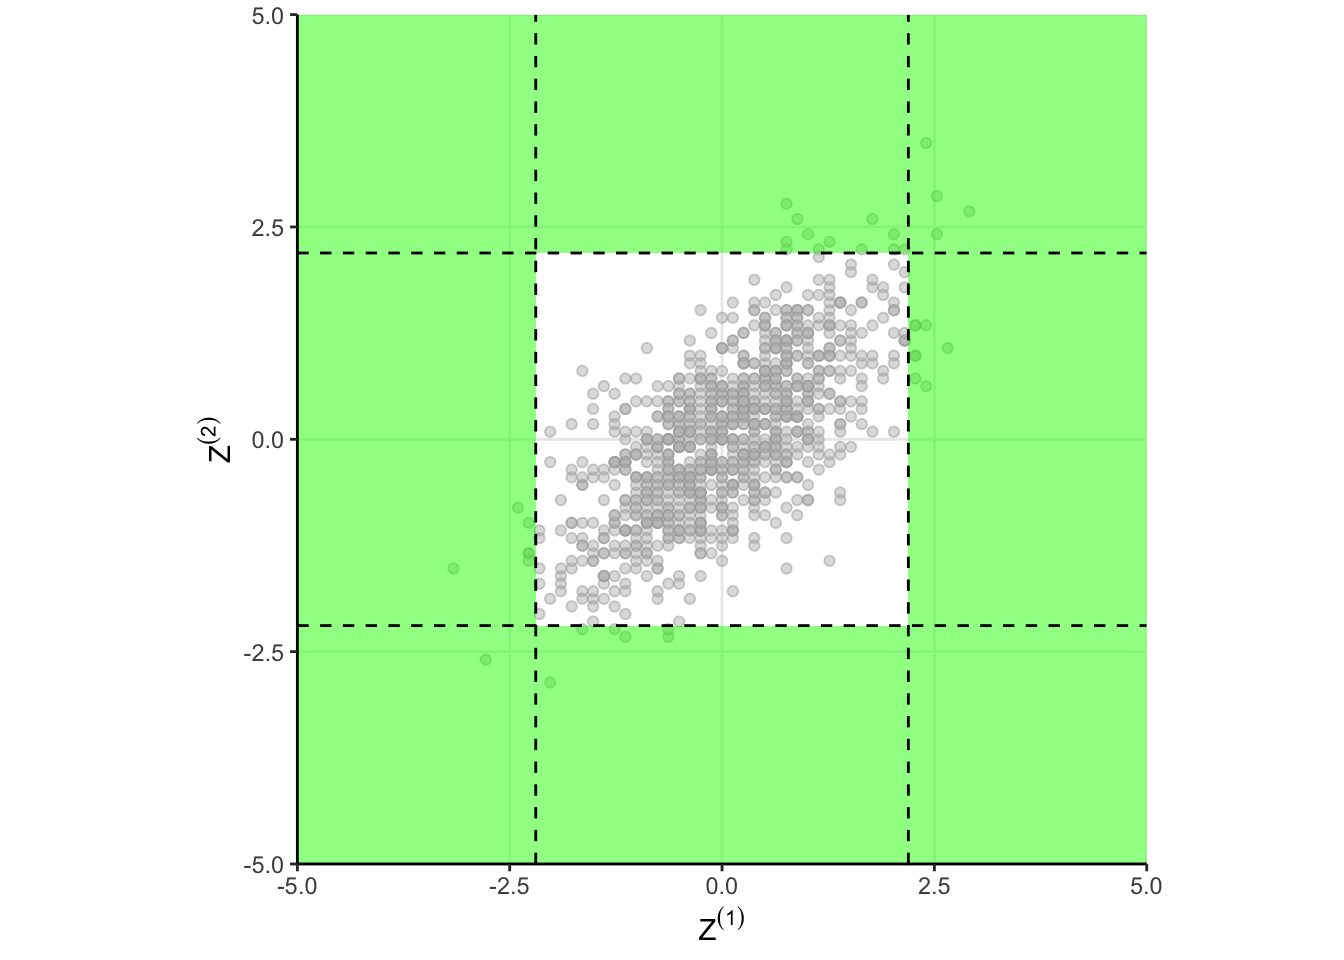
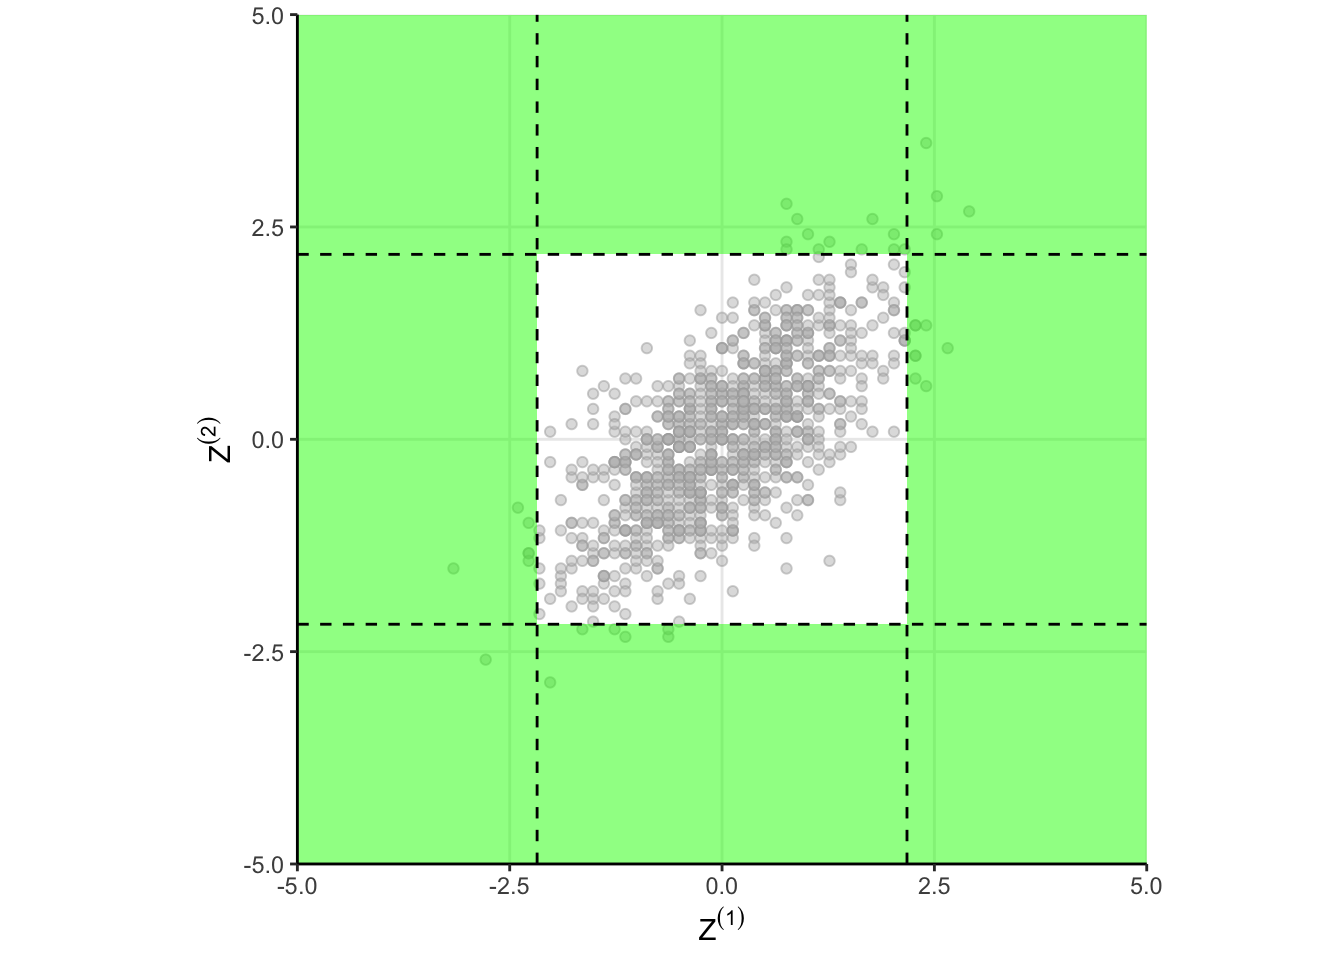
rerender blog posts

Changed region(s): [[0.375, 0.625, 0.6875, 0.6562], [0.6562, 0.25, 0.6875, 0.2812], [0.375, 0.25, 0.4062, 0.2812]]

diff --git a/docs/posts/2022-07-06-gsd/index.html b/docs/posts/2022-07-06-gsd/index.html
@@ -340,7 +340,7 @@ code span.wa { color: #60a0b0; font-weight: bold; font-style: italic; } /* Warni
 <span id="cb1-33"><a href="#cb1-33" aria-hidden="true" tabindex="-1"></a>  <span class="fu">pull</span>(fpr)</span></code><button title="Copy to Clipboard" class="code-copy-button"><i class="bi"></i></button></pre></div>
 </div>
 <p>From our simulation, we reject the null around 8.6% of the time. That is certainly higher than the nominal 5%, but if we recall our sophomore stats classes, isn’t there a 9.8% (<span class="math inline">\(1-0.95^2\)</span>) chance we reject the null?</p>
-<p>The 8.6% isn’t simulation error. Because of the accumulation of data, <span class="math inline">\(\bar{X}^{(1)}\)</span> and <span class="math inline">\(\bar{X}^{(2)}\)</span> are <em>correlated</em>. The correlation between <span class="math inline">\(\bar{X}^{(1)}\)</span> and <span class="math inline">\(\bar{X}^{(2)}\)</span> makes intuitive sense. If the sample mean for the first group is small, then the accumulated mean is also likely to be small than if we were to just take a new sample. Let’s take a more detailed look at <a href="#eq-eq-1">Equation&nbsp;1</a>. Note that</p>
+<p>The 8.6% isn’t simulation error. We forgot that <span class="math inline">\(\bar{X}^{(1)}\)</span> and <span class="math inline">\(\bar{X}^{(2)}\)</span> are <em>correlated</em>. The correlation between <span class="math inline">\(\bar{X}^{(1)}\)</span> and <span class="math inline">\(\bar{X}^{(2)}\)</span> makes intuitive sense. If the sample mean for the first group is small, then the accumulated mean is also likely to be small than if we were to just take a new sample. Let’s take a more detailed look at <a href="#eq-eq-1">Equation&nbsp;1</a>. Note that</p>
 <p><span class="math display">\[ \bar{X}^{(2)} = \dfrac{n_1 \bar{X}_1 + n_2\bar{X}_2}{n_1 + n_2} \&gt;.\]</span></p>
 <p><span class="math inline">\(\bar{X}^{(1)}\)</span> (which is just <span class="math inline">\(\bar{X}_1\)</span> ) appears in the expression for <span class="math inline">\(\bar{X}^{(2)}\)</span>. In the extreme case where <span class="math inline">\(n_2=1\)</span>, the stage 2 mean is going to be <span class="math inline">\(n_1 \bar{X}_1/(n_1+1) + X_{2, 1}/(n_1+1)\)</span>. How much could a single observation change the sample mean? It depends on the observation, but also on how big that sample is. The stuff you learned in sophmore stats about type one error inflating like <span class="math inline">\(1 - (1-\alpha)^k\)</span> assumes the test statistics are independent. So where does the 8.6% come from? To answer that, we need to understand the joint distribution of the <span class="math inline">\(\bar{X}^{(k)}\)</span>.</p>
 </section>
@@ -441,18 +441,18 @@ code span.wa { color: #60a0b0; font-weight: bold; font-style: italic; } /* Warni
 <p><span class="math display">\[ Pr\left( \Big\vert Z^{(1)} \Big\vert &gt; 1.96 \cup 1.96 &lt; \Big\vert Z^{(2)} \Big\vert \right) \&gt;. \]</span></p>
 <p>Because the joint is multivariate normal, we can compute this probability directly. However, I’m just going to simulate it.</p>
 <div class="cell">
-<div class="sourceCode cell-code" id="cb4"><pre class="sourceCode r code-with-copy"><code class="sourceCode r"><span id="cb4-1"><a href="#cb4-1" aria-hidden="true" tabindex="-1"></a>Z<span class="ot">&lt;-</span> MASS<span class="sc">::</span><span class="fu">mvrnorm</span>((<span class="dv">1</span><span class="sc">/</span><span class="fl">0.001</span>)<span class="sc">^</span><span class="dv">2</span>, <span class="fu">rep</span>(p, <span class="dv">2</span>), sig)</span>
-<span id="cb4-2"><a href="#cb4-2" aria-hidden="true" tabindex="-1"></a></span>
-<span id="cb4-3"><a href="#cb4-3" aria-hidden="true" tabindex="-1"></a><span class="co"># Something something inverse of the cholesky, I forget</span></span>
-<span id="cb4-4"><a href="#cb4-4" aria-hidden="true" tabindex="-1"></a>Z[, <span class="dv">1</span>] <span class="ot">&lt;-</span> (Z[, <span class="dv">1</span>] <span class="sc">-</span> p)<span class="sc">/</span><span class="fu">sqrt</span>(Z[, <span class="dv">1</span>]<span class="sc">*</span>(<span class="dv">1</span><span class="sc">-</span>Z[, <span class="dv">1</span>])<span class="sc">/</span>n)</span>
-<span id="cb4-5"><a href="#cb4-5" aria-hidden="true" tabindex="-1"></a>Z[, <span class="dv">2</span>] <span class="ot">&lt;-</span> (Z[, <span class="dv">2</span>] <span class="sc">-</span> p)<span class="sc">/</span><span class="fu">sqrt</span>(Z[, <span class="dv">2</span>]<span class="sc">*</span>(<span class="dv">1</span><span class="sc">-</span>Z[, <span class="dv">2</span>])<span class="sc">/</span>(<span class="dv">2</span><span class="sc">*</span>n))</span>
+<div class="sourceCode cell-code" id="cb4"><pre class="sourceCode r code-with-copy"><code class="sourceCode r"><span id="cb4-1"><a href="#cb4-1" aria-hidden="true" tabindex="-1"></a><span class="co"># Standardize the MVN by converting covariance matrix into a correlation matrix</span></span>
+<span id="cb4-2"><a href="#cb4-2" aria-hidden="true" tabindex="-1"></a>D <span class="ot">&lt;-</span> <span class="fu">solve</span>(<span class="fu">diag</span>(<span class="fu">sqrt</span>(<span class="fu">diag</span>(sig))))</span>
+<span id="cb4-3"><a href="#cb4-3" aria-hidden="true" tabindex="-1"></a>cormat <span class="ot">&lt;-</span> D <span class="sc">%*%</span> sig <span class="sc">%*%</span> D</span>
+<span id="cb4-4"><a href="#cb4-4" aria-hidden="true" tabindex="-1"></a>Z<span class="ot">&lt;-</span> MASS<span class="sc">::</span><span class="fu">mvrnorm</span>((<span class="dv">1</span><span class="sc">/</span><span class="fl">0.001</span>)<span class="sc">^</span><span class="dv">2</span>, <span class="fu">rep</span>(<span class="dv">0</span>, <span class="dv">2</span>), cormat)</span>
+<span id="cb4-5"><a href="#cb4-5" aria-hidden="true" tabindex="-1"></a></span>
 <span id="cb4-6"><a href="#cb4-6" aria-hidden="true" tabindex="-1"></a></span>
 <span id="cb4-7"><a href="#cb4-7" aria-hidden="true" tabindex="-1"></a>z1 <span class="ot">=</span> <span class="fu">abs</span>(Z[, <span class="dv">1</span>])<span class="sc">&gt;</span><span class="fl">1.96</span></span>
 <span id="cb4-8"><a href="#cb4-8" aria-hidden="true" tabindex="-1"></a>z2 <span class="ot">=</span> <span class="fu">abs</span>(Z[, <span class="dv">2</span>])<span class="sc">&gt;</span><span class="fl">1.96</span></span>
 <span id="cb4-9"><a href="#cb4-9" aria-hidden="true" tabindex="-1"></a></span>
 <span id="cb4-10"><a href="#cb4-10" aria-hidden="true" tabindex="-1"></a>fpr <span class="ot">&lt;-</span> <span class="fu">mean</span>(z1<span class="sc">|</span>z2)</span></code><button title="Copy to Clipboard" class="code-copy-button"><i class="bi"></i></button></pre></div>
 </div>
-<p>and we get something like 8.5%. But that doesn’t answer <em>why</em>, that just means I did my algebra correctly. As always, a visualization might help. take a look at <a href="#fig-regions">Figure&nbsp;3</a>. The shaded regions show the areas where the null would be rejected. These are the areas we would make a false positive. The dots indicate the standardized draws from the density of <span class="math inline">\(\theta\)</span>. Remember, this distribution <em>is</em> the null distribution for our GSD – these are draws from <span class="math inline">\(\theta\)</span> when <span class="math inline">\(H_0\)</span> is true. And now here is the important part…</p>
+<p>and we get something like 8.3%. But that doesn’t answer <em>why</em>, that just means I did my algebra correctly. As always, a visualization might help. take a look at <a href="#fig-regions">Figure&nbsp;3</a>. The shaded regions show the areas where the null would be rejected. These are the areas we would make a false positive. The dots indicate the standardized draws from the density of <span class="math inline">\(\theta\)</span>. Remember, this distribution <em>is</em> the null distribution for our GSD – these are draws from <span class="math inline">\(\theta\)</span> when <span class="math inline">\(H_0\)</span> is true. And now here is the important part…</p>
 <blockquote class="blockquote">
 <p>The shaded region depends on critical values we use for each test in the sequence. If we naively use <span class="math inline">\(Z_{1-\alpha/2}\)</span> as the critical value for each group as in “peeking” conditions, then the shaded region is too big!</p>
 </blockquote>
@@ -507,7 +507,7 @@ code span.wa { color: #60a0b0; font-weight: bold; font-style: italic; } /* Warni
 <div class="cell">
 
 </div>
-<p>That is the <em>why</em>! When we naively just run our test each time we peek, we are defining a region in <span class="math inline">\(\theta\)</span> space which has too much probability. Peeking is fine, you just have to be careful in defining your rejection region in <span class="math inline">\(\theta\)</span> space. Defining a better rejection region isn’t too hard, and we can do it using a numerical search. When we do so, we find that using a critical value of 2.19 results in a type one error closer to the desired 5%. However, we’re implicitly restricted ourselves to having the threshold be the same for each group. That doesn’t have to be the case as we will see eventually.</p>
+<p>That is the <em>why</em>! When we naively just run our test each time we peek, we are defining a region in <span class="math inline">\(\theta\)</span> space which has too much probability. Peeking is fine, you just have to be careful in defining your rejection region in <span class="math inline">\(\theta\)</span> space. Defining a better rejection region isn’t too hard, and we can do it using a numerical search. When we do so, we find that using a critical value of 2.18 results in a type one error closer to the desired 5%. However, we’re implicitly restricted ourselves to having the threshold be the same for each group. That doesn’t have to be the case as we will see eventually.</p>
 </section>
 </section>
 <section id="conclusion" class="level2">
